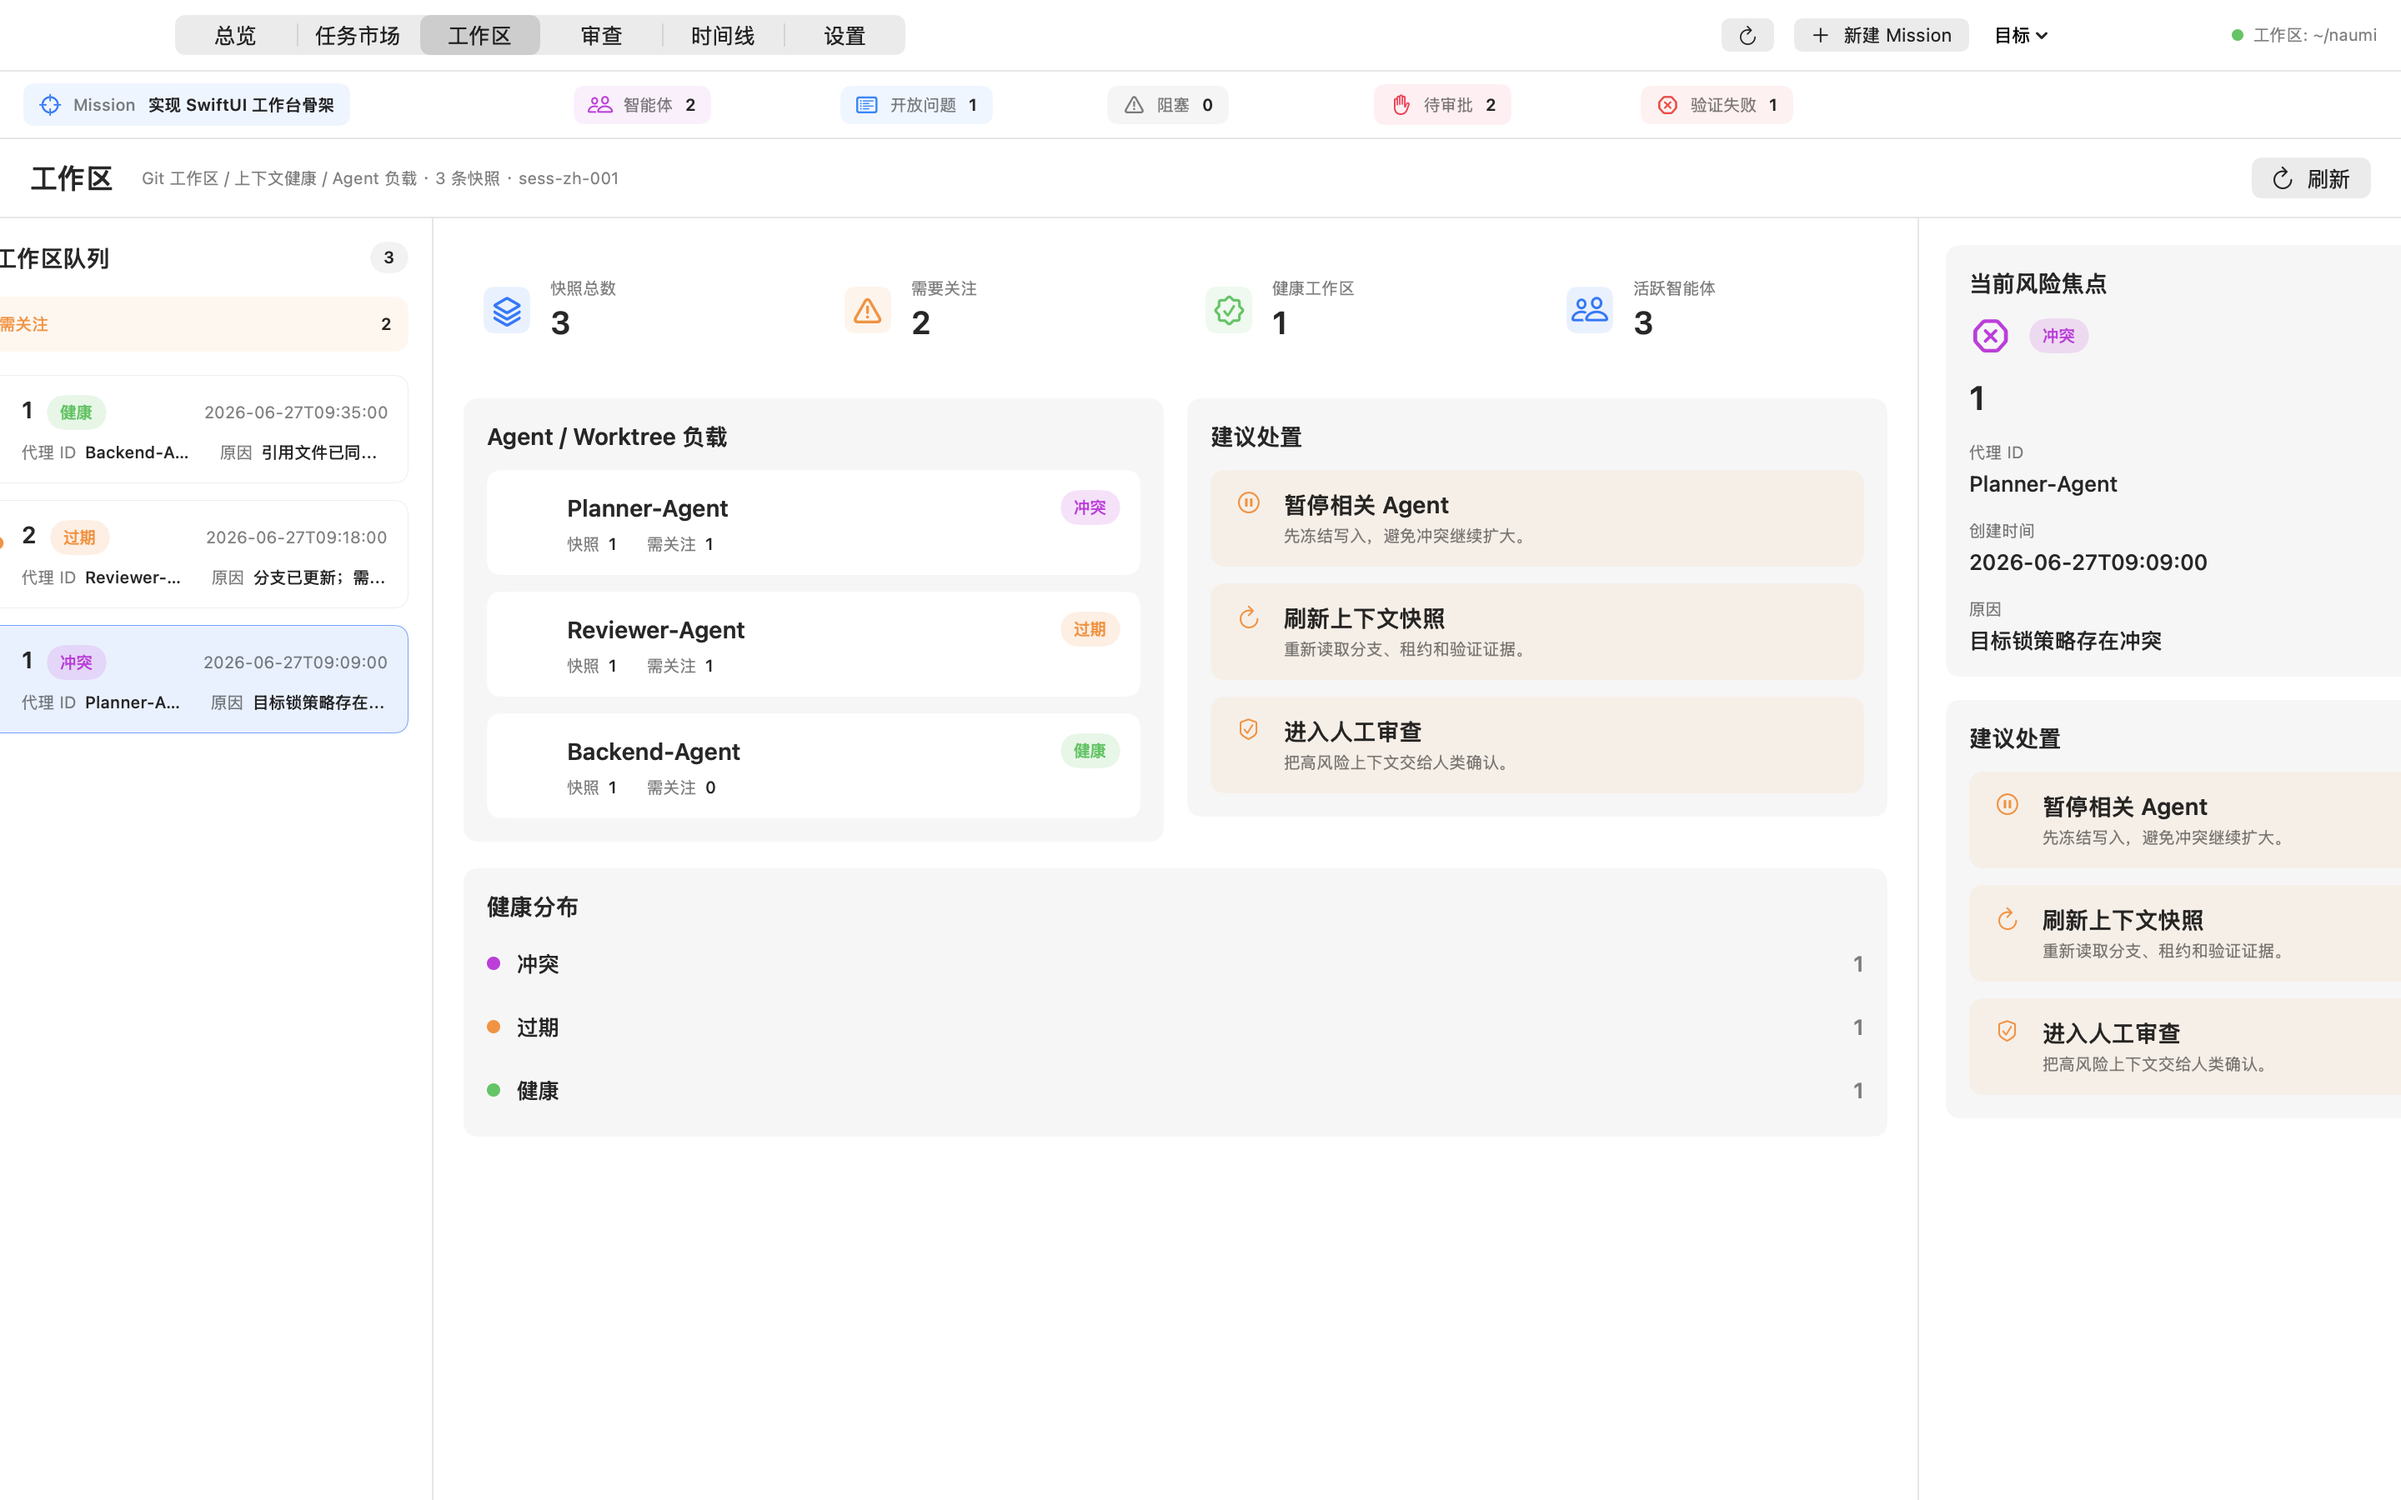
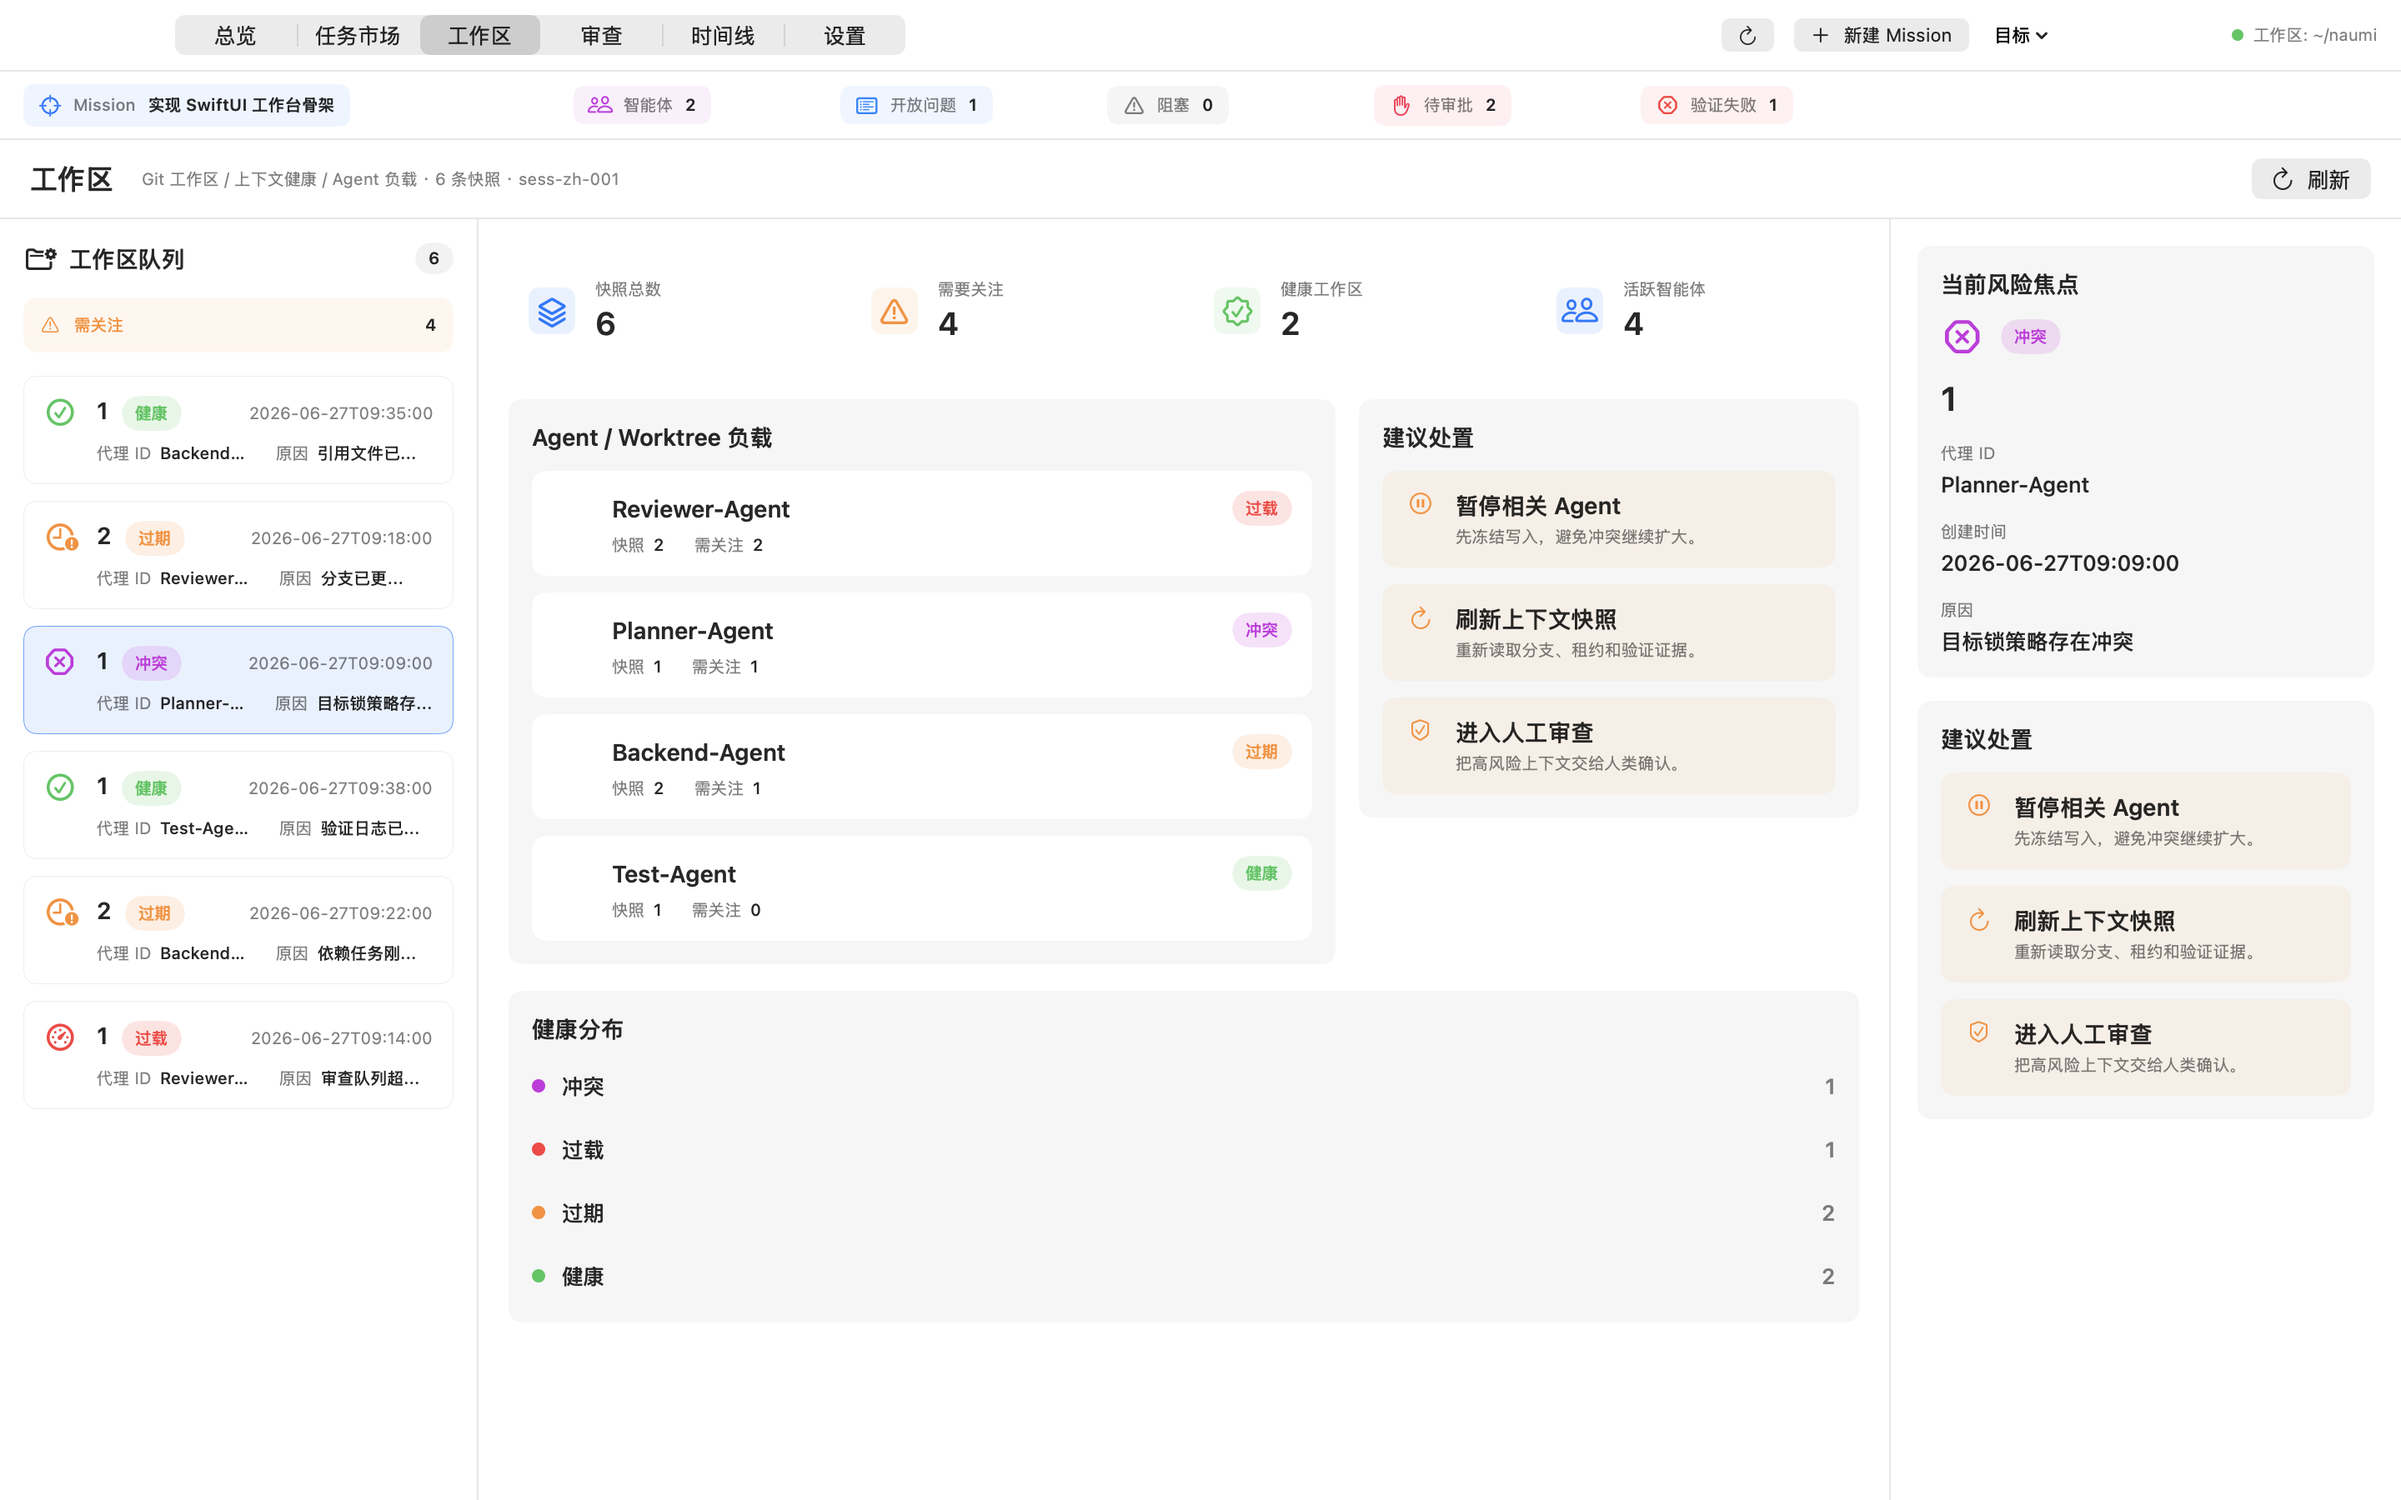
feat: enrich mac workbench navigation previews

diff --git a/apps/macos/NaumiAgentWorkbench/Sources/NaumiAgentWorkbenchCore/App/WorkbenchPreviewLoader.swift b/apps/macos/NaumiAgentWorkbench/Sources/NaumiAgentWorkbenchCore/App/WorkbenchPreviewLoader.swift
@@ -103,7 +103,7 @@ public enum WorkbenchPreviewLoader {
         appState.validationRuns = previewValidationRuns(from: snapshot, locale: locale)
         appState.contextSnapshots = previewContextSnapshots(from: snapshot, locale: locale)
         appState.approvals = previewApprovals(from: snapshot, locale: locale)
-        appState.timelineEvents = snapshot.events
+        appState.timelineEvents = previewTimelineEvents(from: snapshot, locale: locale)
         appState.issues = snapshot.issues
         appState.failures = snapshot.failures
         appState.leases = snapshot.leases
@@ -273,6 +273,128 @@ public enum WorkbenchPreviewLoader {
                     ? ["目标锁策略存在冲突"]
                     : ["Intent lock policy conflict"],
                 createdAt: "2026-06-27T09:09:00"
+            ),
+            ContextSnapshotDTO(
+                id: "preview-context-4",
+                sessionID: snapshot.sessionID,
+                agentID: "Test-Agent",
+                taskID: firstTaskID,
+                health: "good",
+                reasons: locale == .zhCN
+                    ? ["验证日志已归档", "失败复现路径可用"]
+                    : ["Validation logs archived", "Failure reproduction path is available"],
+                createdAt: "2026-06-27T09:38:00"
+            ),
+            ContextSnapshotDTO(
+                id: "preview-context-5",
+                sessionID: snapshot.sessionID,
+                agentID: "Backend-Agent",
+                taskID: secondTaskID,
+                health: "stale",
+                reasons: locale == .zhCN
+                    ? ["依赖任务刚刚更新", "需要重新读取租约状态"]
+                    : ["Dependency task was just updated", "Lease state should be reread"],
+                createdAt: "2026-06-27T09:22:00"
+            ),
+            ContextSnapshotDTO(
+                id: "preview-context-6",
+                sessionID: snapshot.sessionID,
+                agentID: "Reviewer-Agent",
+                taskID: firstTaskID,
+                health: "overloaded",
+                reasons: locale == .zhCN
+                    ? ["审查队列超过并行上限", "建议先处理高风险审批"]
+                    : ["Review queue exceeds parallel limit", "Handle high-risk approval first"],
+                createdAt: "2026-06-27T09:14:00"
+            )
+        ]
+    }
+
+    private static func previewTimelineEvents(
+        from snapshot: WorkbenchSnapshotDTO,
+        locale: AppLocale
+    ) -> [EventDTO] {
+        let missionID = snapshot.missions.first?.id ?? "mission-preview"
+        let firstTaskID = snapshot.tasks.first?.id ?? "task-preview"
+        let secondTaskID = snapshot.tasks.dropFirst().first?.id ?? firstTaskID
+        let thirdTaskID = snapshot.tasks.dropFirst(2).first?.id ?? firstTaskID
+
+        let localizedMissionTitle = locale == .zhCN
+            ? "实现 SwiftUI 工作台骨架"
+            : "Implement SwiftUI workbench shell"
+
+        return [
+            EventDTO(
+                id: "preview-event-1",
+                sessionID: snapshot.sessionID,
+                type: "mission.created",
+                actor: "Human",
+                subjectID: missionID,
+                payload: ["title": .string(localizedMissionTitle)],
+                timestamp: "2026-06-27T09:05:00"
+            ),
+            EventDTO(
+                id: "preview-event-2",
+                sessionID: snapshot.sessionID,
+                type: "task.claimed",
+                actor: "Backend-Agent",
+                subjectID: firstTaskID,
+                payload: ["lease": .string("exclusive"), "worktree": .string("wt-api-client")],
+                timestamp: "2026-06-27T09:14:00"
+            ),
+            EventDTO(
+                id: "preview-event-3",
+                sessionID: snapshot.sessionID,
+                type: "worktree.created",
+                actor: "Backend-Agent",
+                subjectID: "wt-api-client",
+                payload: ["branch": .string("issue-1-api-client")],
+                timestamp: "2026-06-27T09:18:11"
+            ),
+            EventDTO(
+                id: "preview-event-4",
+                sessionID: snapshot.sessionID,
+                type: "validation.passed",
+                actor: "Test-Agent",
+                subjectID: firstTaskID,
+                payload: ["command": .string("ruff check src/")],
+                timestamp: "2026-06-27T09:28:02"
+            ),
+            EventDTO(
+                id: "preview-event-5",
+                sessionID: snapshot.sessionID,
+                type: "validation.failed",
+                actor: "Test-Agent",
+                subjectID: secondTaskID,
+                payload: ["failed": .number(12), "passed": .number(3)],
+                timestamp: "2026-06-27T09:31:12"
+            ),
+            EventDTO(
+                id: "preview-event-6",
+                sessionID: snapshot.sessionID,
+                type: "context.stale",
+                actor: "Reviewer-Agent",
+                subjectID: secondTaskID,
+                payload: ["reason": .string(locale == .zhCN ? "分支已更新" : "Branch updated")],
+                timestamp: "2026-06-27T09:34:20"
+            ),
+            EventDTO(
+                id: "preview-event-7",
+                sessionID: snapshot.sessionID,
+                type: "approval.requested",
+                actor: "Backend-Agent",
+                subjectID: thirdTaskID,
+                payload: ["risk": .string("high"), "reviewer": .string("Human")],
+                timestamp: "2026-06-27T09:36:02"
+            ),
+            EventDTO(
+                id: "preview-event-8",
+                sessionID: snapshot.sessionID,
+                type: "task.updated",
+                actor: "Planner-Agent",
+                subjectID: thirdTaskID,
+                payload: ["status": .string("requires_proposal")],
+                timestamp: "2026-06-27T09:40:00"
             )
         ]
     }

diff --git a/apps/macos/NaumiAgentWorkbench/Sources/NaumiAgentWorkbenchCore/Features/Reviews/ReviewsView.swift b/apps/macos/NaumiAgentWorkbench/Sources/NaumiAgentWorkbenchCore/Features/Reviews/ReviewsView.swift
@@ -36,8 +36,6 @@ public struct ReviewsView: View {
                     .frame(width: 296)
             }
 
-            Divider()
-            footer
         }
         .frame(minWidth: 1180, minHeight: 720)
         .background(Color(nsColor: .windowBackgroundColor))
@@ -54,31 +52,27 @@ public struct ReviewsView: View {
     }
 
     private func pageHeader(selected: ReviewDesignItem) -> some View {
-        ZStack {
-            Color(nsColor: .windowBackgroundColor)
-
-            HStack(spacing: 12) {
-                Text(appState.locale == .zhCN
-                    ? "审查：\(selected.title) (#\(selected.number))"
-                    : "Review: \(selected.title) (#\(selected.number))"
-                )
-                    .font(.system(size: 17, weight: .semibold))
-                    .lineLimit(1)
-                    .truncationMode(.tail)
-                Text(appState.locale == .zhCN ? "高风险：需要人工审批" : "High Risk: Human Approval Required")
-                    .font(.caption)
-                    .fontWeight(.medium)
-                    .padding(.horizontal, 8)
-                    .padding(.vertical, 4)
-                    .background(Color.red.opacity(0.10))
-                    .foregroundStyle(.red)
-                    .clipShape(RoundedRectangle(cornerRadius: 5))
-                Spacer()
-            }
-            .padding(.horizontal, 18)
-            .offset(y: 28)
+        HStack(spacing: 12) {
+            Text(appState.locale == .zhCN
+                ? "审查：\(selected.title) (#\(selected.number))"
+                : "Review: \(selected.title) (#\(selected.number))"
+            )
+                .font(.system(size: 17, weight: .semibold))
+                .lineLimit(1)
+                .truncationMode(.tail)
+            Text(appState.locale == .zhCN ? "高风险：需要人工审批" : "High Risk: Human Approval Required")
+                .font(.caption)
+                .fontWeight(.medium)
+                .padding(.horizontal, 8)
+                .padding(.vertical, 4)
+                .background(Color.red.opacity(0.10))
+                .foregroundStyle(.red)
+                .clipShape(RoundedRectangle(cornerRadius: 5))
+            Spacer()
         }
+        .padding(.horizontal, 18)
         .frame(height: 48)
+        .background(Color(nsColor: .windowBackgroundColor))
     }
 
     private func reviewQueueRail(_ presentation: ReviewsDesignPresentation) -> some View {
@@ -583,24 +577,6 @@ public struct ReviewsView: View {
         }
         .font(.caption)
         .foregroundStyle(.secondary)
-    }
-
-    private var footer: some View {
-        HStack {
-            Circle()
-                .fill(.green)
-                .frame(width: 8, height: 8)
-            Text(appState.locale == .zhCN ? "已连接本地 NaumiAgent Runtime" : "Connected to local NaumiAgent Runtime")
-                .font(.caption)
-                .foregroundStyle(.secondary)
-            Spacer()
-            Text("v0.3.0")
-                .font(.caption)
-                .foregroundStyle(.secondary)
-        }
-        .padding(.horizontal, 16)
-        .padding(.vertical, 8)
-        .background(Color(nsColor: .windowBackgroundColor))
     }
 
     private func statusTone(_ status: String) -> Color {
